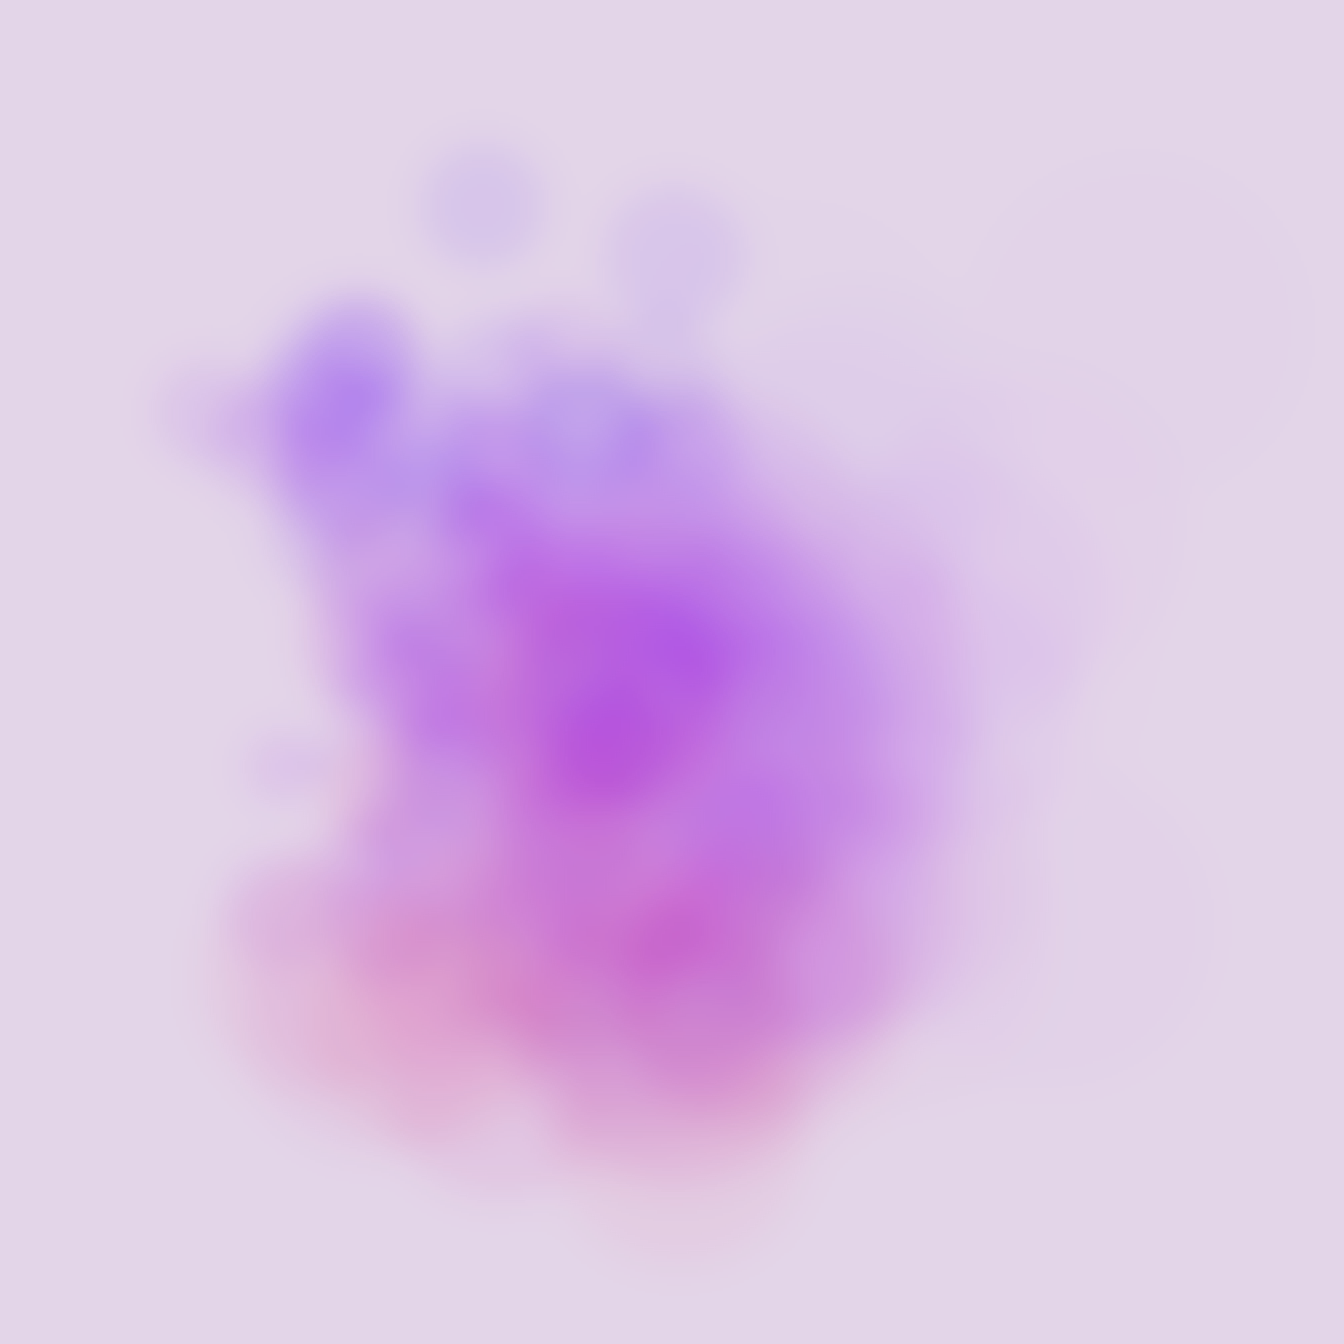
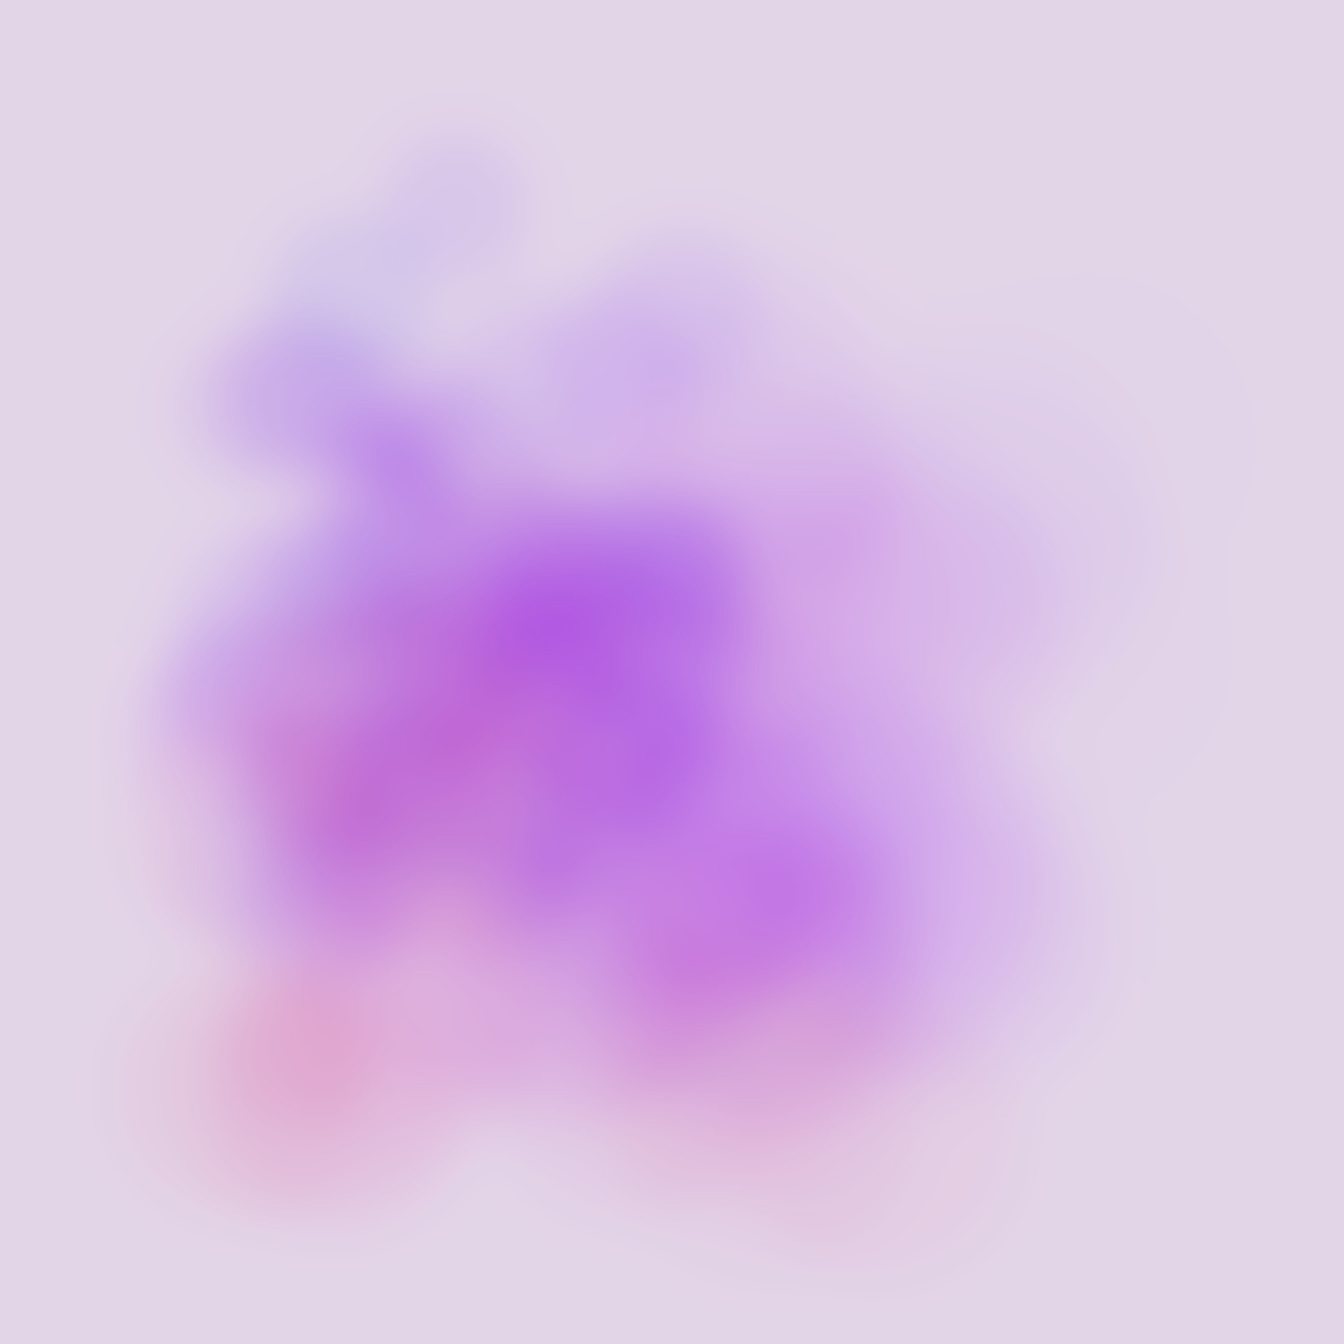
actualización posts

diff --git a/public/blog/ggplot_nubes/index.html b/public/blog/ggplot_nubes/index.html
@@ -9,7 +9,7 @@
 <meta http-equiv="X-UA-Compatible" content="IE=edge,chrome=1">
 <meta name="viewport" content="width=device-width, initial-scale=1, shrink-to-fit=no">
 <meta name="generator" content="Hugo 0.136.5">
-<title>¿Arte? Nubes aleatorias en ggplot | Blog</title>
+<title>¿Arte? Nubes aleatorias en `{ggplot2}` | Blog</title>
 
 
 <meta property="twitter:site" content="@bastimapache">
@@ -29,7 +29,7 @@ Tomé el dataframe `iris`, configuré algunos elementos aleatorios en el gráfic
 
 
 <meta property="og:site_name" content="Blog">
-<meta property="og:title" content="¿Arte? Nubes aleatorias en ggplot | Blog">
+<meta property="og:title" content="¿Arte? Nubes aleatorias en `{ggplot2}` | Blog">
 <meta property="og:description" content="Probando un poco de arte generativo en `{ggplot2}`. La idea era generar gráficos que parecieran nubes o humo. 
 Tomé el dataframe `iris`, configuré algunos elementos aleatorios en el gráfico, le agregué un efecto de desenfoque a los puntos, y luego hice un loop que genera 9 gráficos con parámetros aleatorios." />
 <meta property="og:type" content="page" />
@@ -46,7 +46,7 @@ Tomé el dataframe `iris`, configuré algunos elementos aleatorios en el gráfic
     
     
   
-  <meta itemprop="name" content="¿Arte? Nubes aleatorias en ggplot">
+  <meta itemprop="name" content="¿Arte? Nubes aleatorias en `{ggplot2}`">
   <meta itemprop="description" content="Probando un poco de arte generativo en {ggplot2}. La idea era generar gráficos que parecieran nubes o humo.
 Tomé el dataframe iris, configuré algunos elementos aleatorios en el gráfico, le agregué un efecto de desenfoque a los puntos, y luego hice un loop que genera 9 gráficos con parámetros aleatorios.
 library(dplyr) library(glue) library(ggplot2) library(ggfx) library(purrr) Partimos con un gráfico base usando los datos de iris, donde los puntos crecen en base a una variable, y también aumentan su transparencia en la misma medida que aumentan su tamaño. De esta forma, los puntos más grandes son también menos visibles.">
@@ -126,7 +126,7 @@ library(dplyr) library(glue) library(ggplot2) library(ggfx) library(purrr) Parti
   <section class="page-content mw7 center">
     <article class="post-content pa0 ph4-l">
       <header class="post-header">
-        <h1 class="f1 lh-solid measure-narrow mb3 fw4">¿Arte? Nubes aleatorias en ggplot</h1>
+        <h1 class="f1 lh-solid measure-narrow mb3 fw4">¿Arte? Nubes aleatorias en `{ggplot2}`</h1>
         
         
         <p class="f7 db mv0 ttu">8/11/2024</p>
@@ -200,10 +200,10 @@ library(dplyr) library(glue) library(ggplot2) library(ggfx) library(purrr) Parti
 </span></span><span style="display:flex;"><span>  <span style="color:#ea9a97">iris</span> <span style="color:#908caa">|&gt;</span> 
 </span></span><span style="display:flex;"><span>    <span style="color:#ea9a97">ggplot</span><span style="color:#908caa">(</span><span style="color:#ea9a97">aes</span><span style="color:#908caa">(</span><span style="color:#ea9a97">x</span> <span style="color:#908caa">=</span> <span style="color:#ea9a97">Sepal.Length</span><span style="color:#908caa">,</span> <span style="color:#ea9a97">y</span> <span style="color:#908caa">=</span> <span style="color:#ea9a97">Sepal.Width</span><span style="color:#908caa">,</span> <span style="color:#ea9a97">alpha</span> <span style="color:#908caa">=</span> <span style="color:#ea9a97">Petal.Length</span><span style="color:#908caa">,</span>
 </span></span><span style="display:flex;"><span>               <span style="color:#ea9a97">size</span> <span style="color:#908caa">=</span> <span style="color:#ea9a97">Petal.Length</span><span style="color:#908caa">,</span> <span style="color:#ea9a97">color</span> <span style="color:#908caa">=</span> <span style="color:#ea9a97">Sepal.Width</span><span style="color:#908caa">))</span> <span style="color:#908caa">+</span>
-</span></span><span style="display:flex;"><span>    <span style="color:#ea9a97">geom_jitter</span><span style="color:#908caa">(</span><span style="color:#ea9a97">width</span> <span style="color:#908caa">=</span> <span style="color:#ea9a97">jitter_x</span><span style="color:#908caa">,</span> <span style="color:#ea9a97">height</span> <span style="color:#908caa">=</span> <span style="color:#ea9a97">jitter_y</span><span style="color:#908caa">)</span> <span style="color:#908caa">|&gt;</span> <span style="color:#ea9a97">with_blur</span><span style="color:#908caa">(</span><span style="color:#ea9a97">sigma</span> <span style="color:#908caa">=</span> <span style="color:#f6c177">7</span><span style="color:#908caa">)</span> <span style="color:#908caa">+</span>
+</span></span><span style="display:flex;"><span>    <span style="color:#ea9a97">geom_jitter</span><span style="color:#908caa">(</span><span style="color:#ea9a97">width</span> <span style="color:#908caa">=</span> <span style="color:#ea9a97">jitter_x</span><span style="color:#908caa">,</span> <span style="color:#ea9a97">height</span> <span style="color:#908caa">=</span> <span style="color:#ea9a97">jitter_y</span><span style="color:#908caa">)</span> <span style="color:#908caa">|&gt;</span> <span style="color:#ea9a97">with_blur</span><span style="color:#908caa">(</span><span style="color:#ea9a97">sigma</span> <span style="color:#908caa">=</span> <span style="color:#f6c177">9</span><span style="color:#908caa">)</span> <span style="color:#908caa">+</span>
 </span></span><span style="display:flex;"><span>    <span style="color:#ea9a97">theme_void</span><span style="color:#908caa">()</span> <span style="color:#908caa">+</span>
 </span></span><span style="display:flex;"><span>    <span style="color:#ea9a97">scale_size</span><span style="color:#908caa">(</span><span style="color:#ea9a97">range</span> <span style="color:#908caa">=</span> <span style="color:#ea9a97">c</span><span style="color:#908caa">(</span><span style="color:#ea9a97">tamaño_min</span><span style="color:#908caa">,</span> <span style="color:#ea9a97">tamaño_max</span><span style="color:#908caa">))</span> <span style="color:#908caa">+</span>
-</span></span><span style="display:flex;"><span>    <span style="color:#ea9a97">scale_alpha</span><span style="color:#908caa">(</span><span style="color:#ea9a97">range</span> <span style="color:#908caa">=</span> <span style="color:#ea9a97">c</span><span style="color:#908caa">(</span><span style="color:#f6c177">.08</span><span style="color:#908caa">,</span> <span style="color:#f6c177">.0</span><span style="color:#908caa">))</span> <span style="color:#908caa">+</span>
+</span></span><span style="display:flex;"><span>    <span style="color:#ea9a97">scale_alpha</span><span style="color:#908caa">(</span><span style="color:#ea9a97">range</span> <span style="color:#908caa">=</span> <span style="color:#ea9a97">c</span><span style="color:#908caa">(</span><span style="color:#f6c177">.07</span><span style="color:#908caa">,</span> <span style="color:#f6c177">.0</span><span style="color:#908caa">))</span> <span style="color:#908caa">+</span>
 </span></span><span style="display:flex;"><span>    <span style="color:#ea9a97">scale_color_gradient2</span><span style="color:#908caa">(</span><span style="color:#ea9a97">low</span> <span style="color:#908caa">=</span> <span style="color:#f6c177">&#34;red&#34;</span><span style="color:#908caa">,</span> <span style="color:#ea9a97">mid</span> <span style="color:#908caa">=</span> <span style="color:#f6c177">&#34;purple&#34;</span><span style="color:#908caa">,</span> <span style="color:#ea9a97">high</span> <span style="color:#908caa">=</span> <span style="color:#f6c177">&#34;blue&#34;</span><span style="color:#908caa">,</span> 
 </span></span><span style="display:flex;"><span>                          <span style="color:#ea9a97">midpoint</span> <span style="color:#908caa">=</span> <span style="color:#ea9a97">centro_color</span><span style="color:#908caa">)</span> <span style="color:#908caa">+</span>
 </span></span><span style="display:flex;"><span>    <span style="color:#ea9a97">theme</span><span style="color:#908caa">(</span><span style="color:#ea9a97">legend.position</span> <span style="color:#908caa">=</span> <span style="color:#f6c177">&#34;none&#34;</span><span style="color:#908caa">)</span> <span style="color:#908caa">+</span>

diff --git a/public/blog/hugo_blog_nuevo/index.html b/public/blog/hugo_blog_nuevo/index.html
@@ -49,7 +49,7 @@
 Lo creé usando Hugo, un generador de sitios web estáticos de código abierto y gratuito. Hugo se puede usar a través de R usando {blogdown} y el tema Hugo Apéro, creado por Alison Hill, y así puedes crear páginas y publicaciones usando Quarto o RMarkdown. De ese modo resulta muy fácil integrar las cosas que hagas con R en tu sitio, compartiendo el código en los posts.">
   <meta itemprop="datePublished" content="2024-11-07T00:00:00+00:00">
   <meta itemprop="dateModified" content="2024-11-07T00:00:00+00:00">
-  <meta itemprop="wordCount" content="1193">
+  <meta itemprop="wordCount" content="1344">
   <meta itemprop="keywords" content="Quarto">
   
   <!--[if IE]><script src="//html5shiv.googlecode.com/svn/trunk/html5.js"></script><![endif]-->
@@ -316,7 +316,51 @@ Lo creé usando Hugo, un generador de sitios web estáticos de código abierto y
 </span></span><span style="display:flex;"><span>  <span style="color:#908caa">}</span>
 </span></span></code></pre></div></li>
 </ul>
+
+
+
+
+<h4 id="crear-un-post-nuevo">Crear un post nuevo
+  <a href="#crear-un-post-nuevo"></a>
+</h4>
+<ul>
+<li>Encontraba engorroso eso de crear un nuevo archivo <code>index.md</code> para cada post, porque tenía que copiar y pegar las etiquetas y código que van al inicio. Pero luego me di cuenta de que hay una función de <code>{blogdown}</code> que te crea posts nuevos:
+<div class="highlight"><pre tabindex="0" style="color:#e0def4;background-color:#232136;-moz-tab-size:4;-o-tab-size:4;tab-size:4;"><code class="language-r" data-lang="r"><span style="display:flex;"><span><span style="color:#6e6a86"># crear un post</span>
+</span></span><span style="display:flex;"><span><span style="color:#ea9a97">blogdown</span><span style="color:#908caa">::</span><span style="color:#ea9a97">new_post</span><span style="color:#908caa">(</span><span style="color:#ea9a97">title</span> <span style="color:#908caa">=</span> <span style="color:#f6c177">&#34;Nubes aleatorias en ggplot&#34;</span><span style="color:#908caa">,</span> 
+</span></span><span style="display:flex;"><span>                   <span style="color:#ea9a97">subdir</span> <span style="color:#908caa">=</span> <span style="color:#f6c177">&#34;blog/&#34;</span><span style="color:#908caa">,</span>
+</span></span><span style="display:flex;"><span>                   <span style="color:#ea9a97">file</span> <span style="color:#908caa">=</span> <span style="color:#f6c177">&#34;blog/ggplot_nubes/index.md&#34;</span><span style="color:#908caa">,</span> <span style="color:#6e6a86"># define el &#34;slug&#34;, la dirección url del post</span>
+</span></span><span style="display:flex;"><span>                   <span style="color:#ea9a97">author</span> <span style="color:#908caa">=</span> <span style="color:#f6c177">&#34;Bastián Olea Herrera&#34;</span><span style="color:#908caa">,</span>
+</span></span><span style="display:flex;"><span>                   <span style="color:#ea9a97">tags</span> <span style="color:#908caa">=</span> <span style="color:#ea9a97">c</span><span style="color:#908caa">(</span><span style="color:#f6c177">&#34;ggplot2&#34;</span><span style="color:#908caa">,</span> <span style="color:#f6c177">&#34;gráficos&#34;</span><span style="color:#908caa">,</span> <span style="color:#f6c177">&#34;curiosidades&#34;</span><span style="color:#908caa">)</span>
+</span></span><span style="display:flex;"><span><span style="color:#908caa">)</span>
+</span></span></code></pre></div></li>
+</ul>
 <hr>
+
+
+
+
+<h3 id="consejos">Consejos
+  <a href="#consejos"><svg class="anchor-symbol" aria-hidden="true" height="26" width="26" viewBox="0 0 22 22" xmlns="http://www.w3.org/2000/svg">
+      <path d="M0 0h24v24H0z" fill="currentColor"></path>
+      <path d="M3.9 12c0-1.71 1.39-3.1 3.1-3.1h4V7H7c-2.76.0-5 2.24-5 5s2.24 5 5 5h4v-1.9H7c-1.71.0-3.1-1.39-3.1-3.1zM8 13h8v-2H8v2zm9-6h-4v1.9h4c1.71.0 3.1 1.39 3.1 3.1s-1.39 3.1-3.1 3.1h-4V17h4c2.76.0 5-2.24 5-5s-2.24-5-5-5z"></path>
+    </svg></a>
+</h3>
+<p>Mantengo un archivo <code>.R</code> en el inicio del blog, donde tengo todos los comandos que uso regularmente para el sitio:</p>
+<div class="highlight"><pre tabindex="0" style="color:#e0def4;background-color:#232136;-moz-tab-size:4;-o-tab-size:4;tab-size:4;"><code class="language-r" data-lang="r"><span style="display:flex;"><span><span style="color:#ea9a97">blogdown</span><span style="color:#908caa">::</span><span style="color:#ea9a97">serve_site</span><span style="color:#908caa">()</span> <span style="color:#6e6a86"># previsualizar sitio</span>
+</span></span><span style="display:flex;"><span><span style="color:#ea9a97">blogdown</span><span style="color:#908caa">::</span><span style="color:#ea9a97">stop_server</span><span style="color:#908caa">()</span> <span style="color:#6e6a86"># detener previsualización</span>
+</span></span><span style="display:flex;"><span><span style="color:#ea9a97">blogdown</span><span style="color:#908caa">::</span><span style="color:#ea9a97">stop_server</span><span style="color:#908caa">();</span> <span style="color:#ea9a97">blogdown</span><span style="color:#908caa">::</span><span style="color:#ea9a97">serve_site</span><span style="color:#908caa">()</span> <span style="color:#6e6a86"># reiniciar previsualización</span>
+</span></span><span style="display:flex;"><span>
+</span></span><span style="display:flex;"><span><span style="color:#6e6a86"># crear un post nuevo</span>
+</span></span><span style="display:flex;"><span><span style="color:#ea9a97">blogdown</span><span style="color:#908caa">::</span><span style="color:#ea9a97">new_post</span><span style="color:#908caa">(</span><span style="color:#ea9a97">title</span> <span style="color:#908caa">=</span> <span style="color:#f6c177">&#34;Nubes aleatorias en ggplot&#34;</span><span style="color:#908caa">,</span> 
+</span></span><span style="display:flex;"><span>                   <span style="color:#ea9a97">subdir</span> <span style="color:#908caa">=</span> <span style="color:#f6c177">&#34;blog/&#34;</span><span style="color:#908caa">,</span>
+</span></span><span style="display:flex;"><span>                   <span style="color:#ea9a97">file</span> <span style="color:#908caa">=</span> <span style="color:#f6c177">&#34;blog/ggplot_nubes/index.md&#34;</span><span style="color:#908caa">,</span>
+</span></span><span style="display:flex;"><span>                   <span style="color:#ea9a97">author</span> <span style="color:#908caa">=</span> <span style="color:#f6c177">&#34;Bastián Olea Herrera&#34;</span><span style="color:#908caa">,</span>
+</span></span><span style="display:flex;"><span>                   <span style="color:#ea9a97">tags</span> <span style="color:#908caa">=</span> <span style="color:#ea9a97">c</span><span style="color:#908caa">(</span><span style="color:#f6c177">&#34;ggplot2&#34;</span><span style="color:#908caa">,</span> <span style="color:#f6c177">&#34;gráficos&#34;</span><span style="color:#908caa">,</span> <span style="color:#f6c177">&#34;curiosidades&#34;</span><span style="color:#908caa">)</span>
+</span></span><span style="display:flex;"><span><span style="color:#908caa">)</span>
+</span></span><span style="display:flex;"><span>
+</span></span><span style="display:flex;"><span><span style="color:#6e6a86"># ver sitio en github</span>
+</span></span><span style="display:flex;"><span><span style="color:#ea9a97">usethis</span><span style="color:#908caa">::</span><span style="color:#ea9a97">browse_github</span><span style="color:#908caa">()</span>
+</span></span></code></pre></div><hr>
 
 
 
@@ -353,7 +397,7 @@ Lo creé usando Hugo, un generador de sitios web estáticos de código abierto y
   </dl>
   <dl class="f6 lh-copy">
     <dt class="fw7">Extensión:</dt>
-    <dd class="fw5 ml0">6 minute read, 1193 words</dd>
+    <dd class="fw5 ml0">7 minute read, 1344 words</dd>
   </dl>
   
   
@@ -375,7 +419,7 @@ Lo creé usando Hugo, un generador de sitios web estáticos de código abierto y
   
   
     <a class="prev dtc pr2 tl v-top fw6"
-    href="http://localhost:4321/blog/ggplot_nubes/">&larr; ¿Arte? Nubes aleatorias en ggplot</a>
+    href="http://localhost:4321/blog/ggplot_nubes/">&larr; ¿Arte? Nubes aleatorias en `{ggplot2}`</a>
   
   
   

diff --git a/public/blog/index.html b/public/blog/index.html
@@ -134,7 +134,7 @@
   
   <div class="measure-wide center mb4 mb5-l">
     <header>
-      <h1 class="f3 mt0 mb2 lh-title underline fw4"><a href="/blog/ggplot_nubes/" class="db">¿Arte? Nubes aleatorias en ggplot</a></h1>
+      <h1 class="f3 mt0 mb2 lh-title underline fw4"><a href="/blog/ggplot_nubes/" class="db">¿Arte? Nubes aleatorias en <code>{ggplot2}</code></a></h1>
       
     </header>
       
@@ -444,7 +444,7 @@ Tomé el dataframe <code>iris</code>, configuré algunos elementos aleatorios en
   <ul class="paginate list pl0 tc dt w-100 ma0">
     <li class="dtc w-25 tl v-mid">
     
-      <span class="previous pa2 db fw6">&larr; Newer</span>
+      <span class="previous pa2 db fw6">&larr; Posts nuevos</span>
     
     </li>
     <li class="dtc w-50 v-mid">
@@ -452,7 +452,7 @@ Tomé el dataframe <code>iris</code>, configuré algunos elementos aleatorios en
     </li>
     <li class="dtc w-25 tr v-mid">
     
-      <a href="/blog/page/2/" class="next pa2 db fw6" aria-label="Next">Older &rarr;</a>
+      <a href="/blog/page/2/" class="next pa2 db fw6" aria-label="Next">Posts anteriores &rarr;</a>
     
     </li>
   </ul>

diff --git a/public/blog/page/2/index.html b/public/blog/page/2/index.html
@@ -411,7 +411,7 @@
   <ul class="paginate list pl0 tc dt w-100 ma0">
     <li class="dtc w-25 tl v-mid">
     
-      <a href="/blog/" class="previous pa2 db fw6" aria-label="Previous">&larr; Newer</a>
+      <a href="/blog/" class="previous pa2 db fw6" aria-label="Previous">&larr; Posts nuevos</a>
     
     </li>
     <li class="dtc w-50 v-mid">
@@ -419,7 +419,7 @@
     </li>
     <li class="dtc w-25 tr v-mid">
     
-      <span class="next pa2 db fw6">Older &rarr;</span>
+      <span class="next pa2 db fw6">Posts anteriores &rarr;</span>
     
     </li>
   </ul>

diff --git a/public/blog/tutorial_mapa_urbano/index.html b/public/blog/tutorial_mapa_urbano/index.html
@@ -591,7 +591,7 @@ give correct results for longitude/latitude data
   <dl class="f6 lh-copy">
     <dt class="fw7">Ver también:</dt>
     
-    <dd class="fw5 ml0"><a href="/blog/ggplot_nubes/">¿Arte? Nubes aleatorias en ggplot</a></dd>
+    <dd class="fw5 ml0"><a href="/blog/ggplot_nubes/">¿Arte? Nubes aleatorias en `{ggplot2}`</a></dd>
     
     <dd class="fw5 ml0"><a href="/blog/elecciones_municipales_2024/">Visualización y scraping de resultados en vivo de las elecciones municipales 2024</a></dd>
     

diff --git a/public/blog/tema_morado/index.html b/public/blog/tema_morado/index.html
@@ -196,7 +196,7 @@ Instalación Para agregar el tema a RStudio, descarga el archivo .rstheme desde 
   <dl class="f6 lh-copy">
     <dt class="fw7">Ver también:</dt>
     
-    <dd class="fw5 ml0"><a href="/blog/ggplot_nubes/">¿Arte? Nubes aleatorias en ggplot</a></dd>
+    <dd class="fw5 ml0"><a href="/blog/ggplot_nubes/">¿Arte? Nubes aleatorias en `{ggplot2}`</a></dd>
     
     <dd class="fw5 ml0"><a href="/blog/numeros_romanos/numeros_romanos/">Números romanos en R</a></dd>
     

diff --git a/public/blog/tutorial_mapas_osm/index.html b/public/blog/tutorial_mapas_osm/index.html
@@ -409,7 +409,7 @@ Geodetic CRS:  WGS 84
   <dl class="f6 lh-copy">
     <dt class="fw7">Ver también:</dt>
     
-    <dd class="fw5 ml0"><a href="/blog/ggplot_nubes/">¿Arte? Nubes aleatorias en ggplot</a></dd>
+    <dd class="fw5 ml0"><a href="/blog/ggplot_nubes/">¿Arte? Nubes aleatorias en `{ggplot2}`</a></dd>
     
     <dd class="fw5 ml0"><a href="/blog/elecciones_municipales_2024/">Visualización y scraping de resultados en vivo de las elecciones municipales 2024</a></dd>
     

diff --git a/public/blog/numeros_romanos/numeros_romanos/index.html b/public/blog/numeros_romanos/numeros_romanos/index.html
@@ -252,7 +252,7 @@ Caused by warning:
   <dl class="f6 lh-copy">
     <dt class="fw7">Ver también:</dt>
     
-    <dd class="fw5 ml0"><a href="/blog/ggplot_nubes/">¿Arte? Nubes aleatorias en ggplot</a></dd>
+    <dd class="fw5 ml0"><a href="/blog/ggplot_nubes/">¿Arte? Nubes aleatorias en `{ggplot2}`</a></dd>
     
     <dd class="fw5 ml0"><a href="/blog/tema_morado/">Tema morado oscuro para RStudio</a></dd>
     

diff --git a/public/blog/elecciones_municipales_2024/index.html b/public/blog/elecciones_municipales_2024/index.html
@@ -184,7 +184,7 @@
   <dl class="f6 lh-copy">
     <dt class="fw7">Ver también:</dt>
     
-    <dd class="fw5 ml0"><a href="/blog/ggplot_nubes/">¿Arte? Nubes aleatorias en ggplot</a></dd>
+    <dd class="fw5 ml0"><a href="/blog/ggplot_nubes/">¿Arte? Nubes aleatorias en `{ggplot2}`</a></dd>
     
     <dd class="fw5 ml0"><a href="/blog/benchmark_ejemplo/">Comparar el rendimiento expresiones en R</a></dd>
     

diff --git a/public/tags/curiosidades/index.html b/public/tags/curiosidades/index.html
@@ -135,7 +135,7 @@
   
   <div class="measure-wide center mb4 mb5-l">
     <header>
-      <h1 class="f3 mt0 mb2 lh-title underline fw4"><a href="/blog/ggplot_nubes/" class="db">¿Arte? Nubes aleatorias en ggplot</a></h1>
+      <h1 class="f3 mt0 mb2 lh-title underline fw4"><a href="/blog/ggplot_nubes/" class="db">¿Arte? Nubes aleatorias en <code>{ggplot2}</code></a></h1>
       
     </header>
       

diff --git a/public/tags/ggplot2/index.html b/public/tags/ggplot2/index.html
@@ -135,7 +135,7 @@
   
   <div class="measure-wide center mb4 mb5-l">
     <header>
-      <h1 class="f3 mt0 mb2 lh-title underline fw4"><a href="/blog/ggplot_nubes/" class="db">¿Arte? Nubes aleatorias en ggplot</a></h1>
+      <h1 class="f3 mt0 mb2 lh-title underline fw4"><a href="/blog/ggplot_nubes/" class="db">¿Arte? Nubes aleatorias en <code>{ggplot2}</code></a></h1>
       
     </header>
       

diff --git a/public/tags/gráficos/index.html b/public/tags/gráficos/index.html
@@ -135,7 +135,7 @@
   
   <div class="measure-wide center mb4 mb5-l">
     <header>
-      <h1 class="f3 mt0 mb2 lh-title underline fw4"><a href="/blog/ggplot_nubes/" class="db">¿Arte? Nubes aleatorias en ggplot</a></h1>
+      <h1 class="f3 mt0 mb2 lh-title underline fw4"><a href="/blog/ggplot_nubes/" class="db">¿Arte? Nubes aleatorias en <code>{ggplot2}</code></a></h1>
       
     </header>
       
